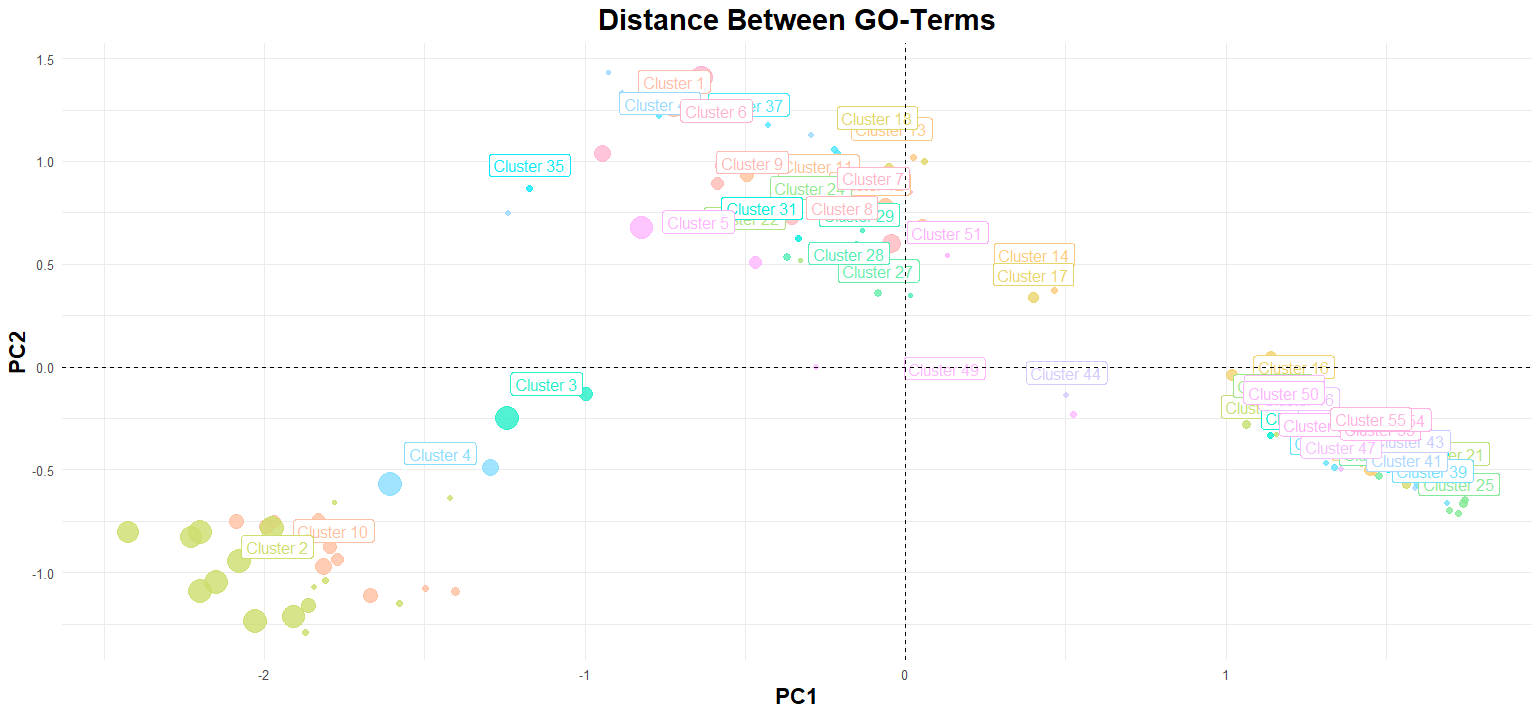
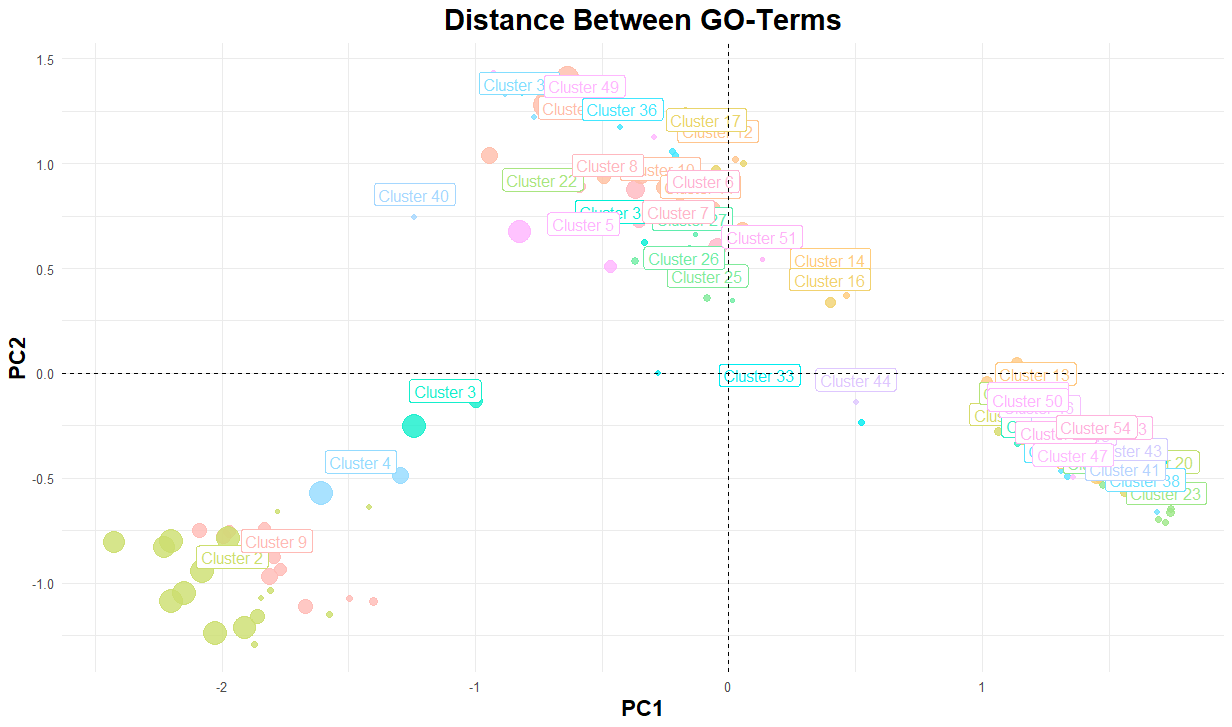
Fixing bugs

diff --git a/README.md b/README.md
@@ -243,8 +243,10 @@ the most representative pathway encompassing the cluster it represents.
 The size of the rectangles depends on XXX.
 
 ```r
-treeMap(cluster, size = "padj", scores = setNames(-log10(GO_BP$Padj), GO_BP$ID),
-title = "Distance Between GO-Terms", colors = colors)
+treeMap(cluster, size = "padj",
+scores = setNames(-log10(GO_BP$Padj), GO_BP$ID),
+title = "Distance Between GO-Terms",
+colors = generate_pastel_colors(n = 54))
 ```
 
 ### Comparing lists of GO-terms
